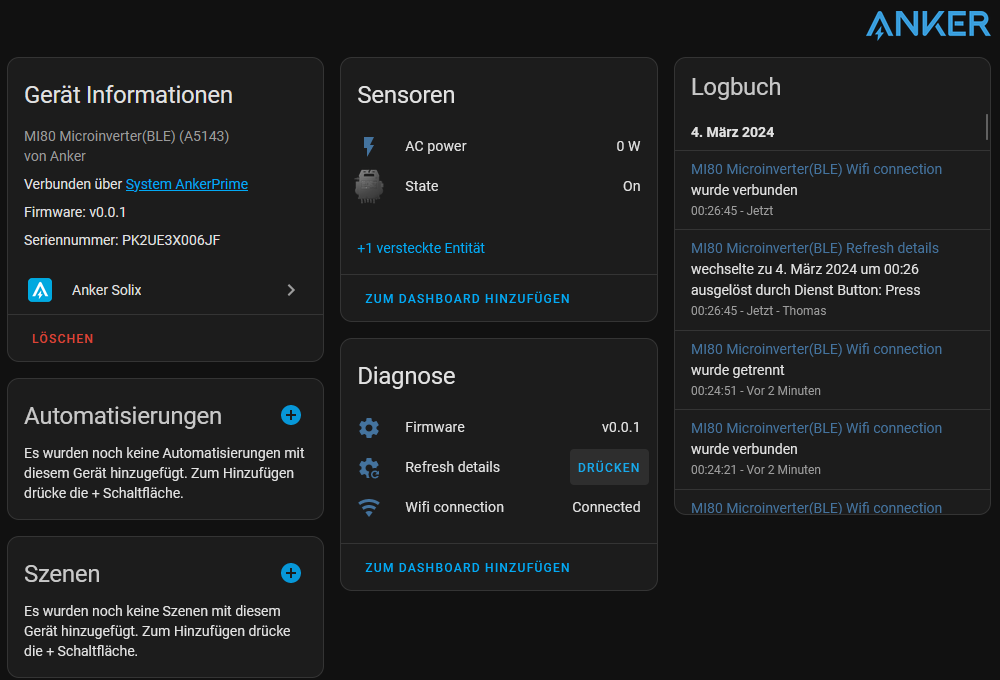
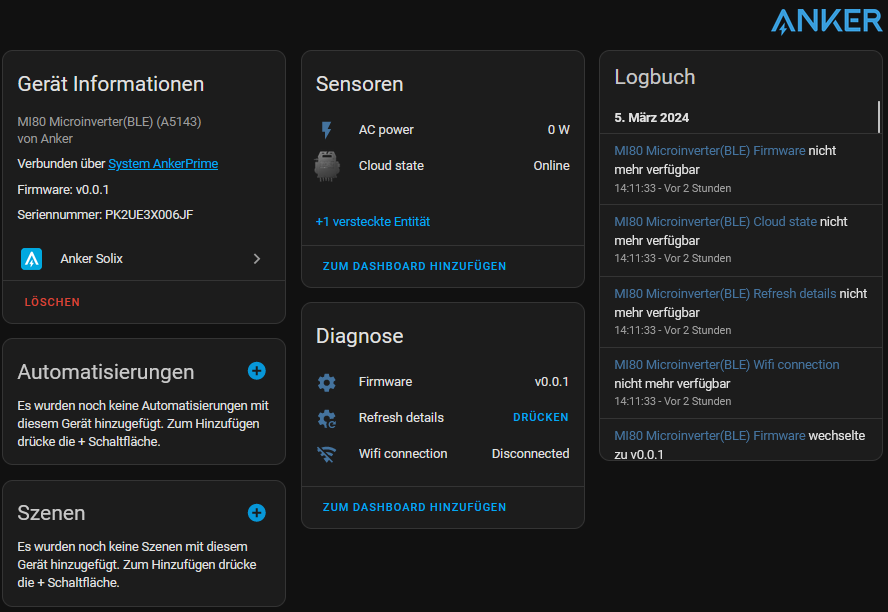
initial release

diff --git a/custom_components/anker_solix/solixapi/api.py b/custom_components/anker_solix/solixapi/api.py
@@ -249,8 +249,8 @@ class SolixDeviceStatus(Enum):
     """Enumuration for Anker Solix Device status."""
 
     # TODO(3): Add descriptions once status code usage is observed/known
-    off = "0"
-    on = "1"
+    offline = "0"
+    online = "1"
     unknown = "unknown"
 
 

diff --git a/README.md b/README.md
@@ -49,7 +49,7 @@ For detailed usage instructions, please refer to the [INFO](INFO.md)
 - The Api library is currently only validated against the EU Anker cloud server. Assignment of countries to the other common cloud server is unknown and depending on the selected country for your account, the Api login may fail or show no valid devices or sensors in the integration
 - The integration sensors and entities being provided depend on whether an Anker owner account or member account is used with the integration
 - The Anker account used in the integration cannot longer be used in the Anker mobile app since the cloud Api only allows 1 active client user token at a time. Existing user tokens will be removed from the server upon new client authentication requests. That means the integration kicks out the App user and vice versa.
-- It was observed that solarbank or inverter devices may loose Wifi connection from time to time and will not be able to send data to the cloud. A Wifi connection status is available, but only when using the owner account in the integration. While Wifi is disconnected, the reported data may be stale without indication that device is disconnected when using shared accounts.
+- It was observed that solarbank or inverter devices may loose Wifi connection from time to time and will not be able to send data to the cloud. While Wifi is disconnected, the reported data may be stale. You can use the Cloud state sensor of the end device to verify the cloud connection state and potentially stale data.
 - The initial integration release supports only Solarbank and Anker inverter devices. Further devices managed by the Anker Power cloud may be added in future if example Api response data can be provided to the developers (open issue on git with example data)
 - The initial integration release supports only following settings when using a system owner account:
    - Auto-Update setting of Solarbank device
